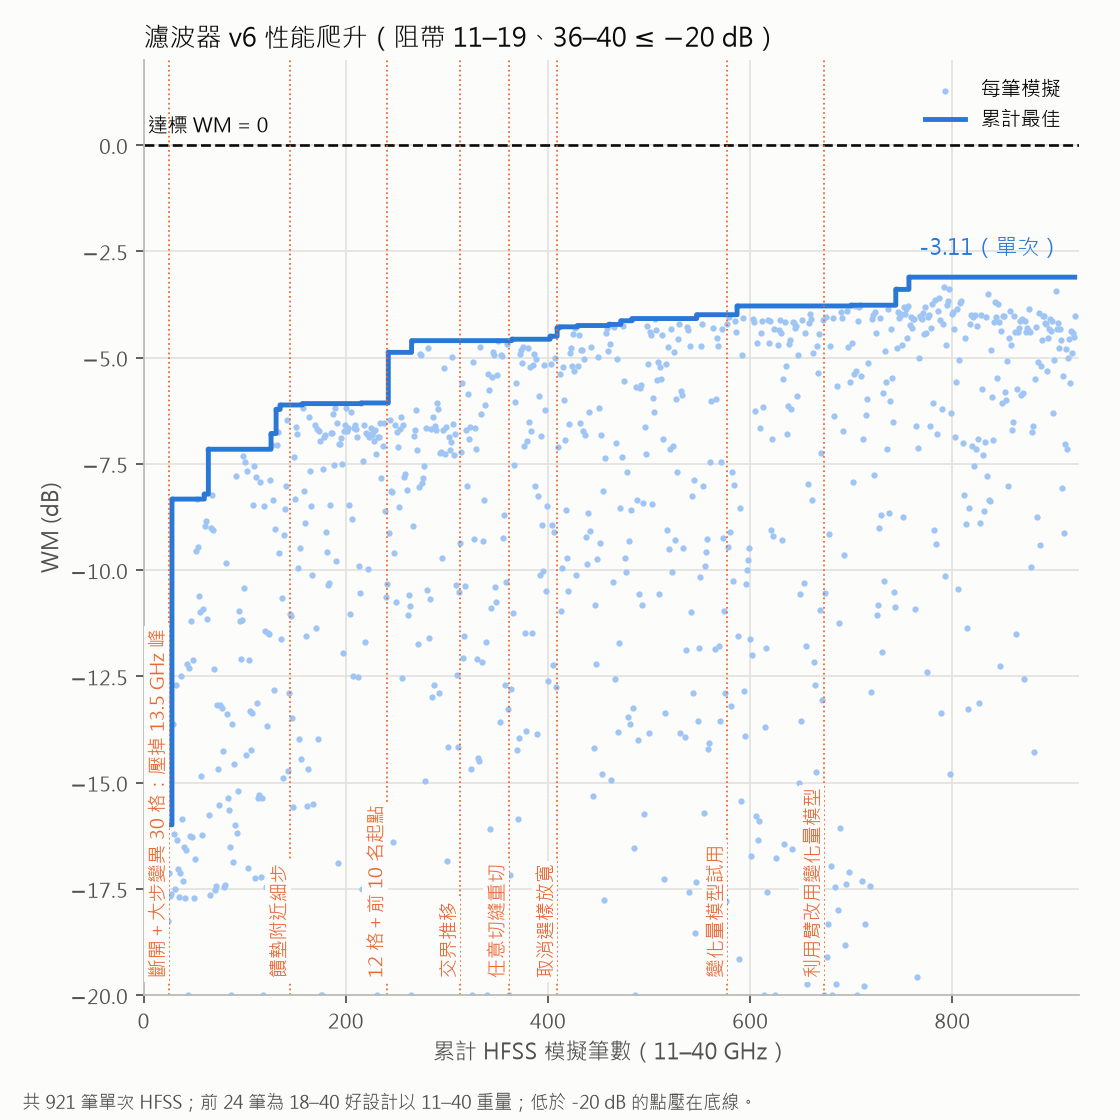
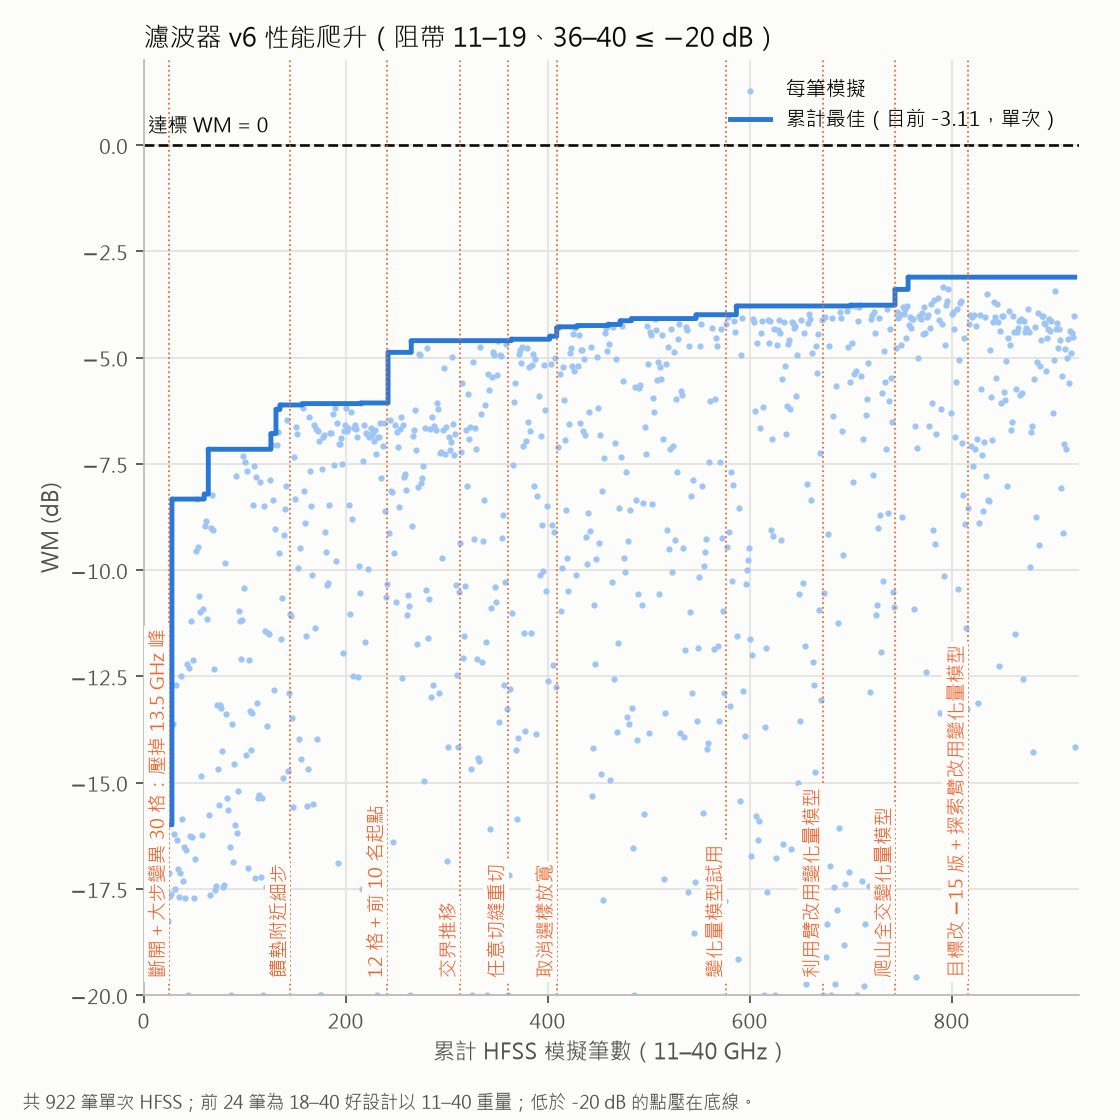
R81 爬升圖：新增 −15 版（v6a）尺回算的爬升圖；事件標註補到 b96（爬山全交變化量模型、目標改 −15 版＋探索臂）；目前最佳改寫進圖例避免壓線

diff --git a/script/figs/r81_v6.py b/script/figs/r81_v6.py
@@ -1,7 +1,7 @@
 """R81 學長 v6 規格（11–40 GHz，阻帶 ≤ −20 dB）兩張圖：性能爬升、目前最佳設計卡片。
 
 用法：python -m script.figs.r81_v6 <輸出資料夾> [--id r81v2_b71_003_f8fd2069]
-輸出：r81v6_climb.png、r81v6_best_card.png、r81v6a_best_card.png（−15 版最佳，各格 margin 用 −15 版；各格正方形）。
+輸出：r81v6_climb.png、r81v6a_climb.png（−15 版尺回算全部）、r81v6_best_card.png、r81v6a_best_card.png（−15 版最佳，各格 margin 用 −15 版；各格正方形）。
 資料：v2_v001 資料根中 11–40 GHz 量測的 store（補量 r81v6m02 與 b62 起各批），依批號排序；重測（~rep）不計入。
 """
 import argparse
@@ -19,7 +19,8 @@ from script.figs import r81_progress as rp
 DOT, LINE, MARK = "#9ec5f4", "#2a78d6", "#eb6834"
 V6, V6A = sm.REPO / "configs" / "dual_r81_v6.yaml", sm.REPO / "configs" / "dual_r81_v6a.yaml"
 EVENTS = [(62, "斷開＋大步變異 30 格：壓掉 13.5 GHz 峰"), (67, "饋墊附近細步"), (71, "12 格＋前 10 名起點"),
-          (74, "交界推移"), (76, "任意切縫重切"), (78, "取消選樣放寬"), (85, "變化量模型試用"), (89, "利用臂改用變化量模型")]
+          (74, "交界推移"), (76, "任意切縫重切"), (78, "取消選樣放寬"), (85, "變化量模型試用"), (89, "利用臂改用變化量模型"),
+          (92, "爬山全交變化量模型"), (96, "目標改 −15 版＋探索臂改用變化量模型"), (101, "兩模型平均打分")]
 
 
 def rows_v6(cfg, grid):
@@ -40,15 +41,14 @@ def rows_v6(cfg, grid):
     return rows
 
 
-def climb_figure(out, rows):
-    wm = np.array([r["wm"] for r in rows])
+def climb_figure(out, rows, key="wm", lo=-20, title="濾波器 v6 性能爬升（阻帶 11–19、36–40 ≤ −20 dB）", note=""):
+    wm = np.array([r[key] for r in rows])
     best = np.maximum.accumulate(wm)
     x = np.arange(1, len(wm) + 1)
-    lo = -20
     fig, ax = plt.subplots(figsize=(7, 7), dpi=160)
     fig.patch.set_facecolor(rp.SURF)
     ax.scatter(x, np.clip(wm, lo, None), s=8, color=DOT, lw=0, label="每筆模擬")
-    ax.step(x, best, where="post", color=LINE, lw=2.2, label="累計最佳")
+    ax.step(x, best, where="post", color=LINE, lw=2.2, label=f"累計最佳（目前 {best[-1]:+.2f}，單次）")
     ax.axhline(0, color=rp.INK, lw=1.2, ls="--")
     ax.text(4, 0.3, "達標 WM = 0", fontsize=9, color=rp.INK)
     batches = [r["batch"] for r in rows]
@@ -58,17 +58,15 @@ def climb_figure(out, rows):
             ax.axvline(x[i], color=MARK, lw=0.8, ls=":")
             ax.text(x[i] - 3, lo + 0.4, text, rotation=90, ha="right", va="bottom", fontsize=8.5, color=MARK,
                     bbox=dict(facecolor=rp.SURF, edgecolor="none", pad=1.5))
-    ax.annotate(f"{best[-1]:+.2f}（單次）", xy=(x[-1], best[-1]), xytext=(-6, 10), textcoords="offset points",
-                ha="right", fontsize=10, color=LINE)
     ax.set_xlim(0, x[-1] + 4)
     ax.set_ylim(lo, 2)
     ax.set_xlabel("累計 HFSS 模擬筆數（11–40 GHz）", color=rp.MUTED)
     ax.set_ylabel("WM (dB)", color=rp.MUTED)
-    ax.set_title("濾波器 v6 性能爬升（阻帶 11–19、36–40 ≤ −20 dB）", loc="left", fontsize=11.5, color=rp.INK)
+    ax.set_title(title, loc="left", fontsize=11.5, color=rp.INK)
     ax.legend(loc="upper right", frameon=False, fontsize=9)
     rp.style(ax)
     ax.set_box_aspect(1)
-    fig.text(0.02, 0.01, f"共 {len(wm)} 筆單次 HFSS；前 24 筆為 18–40 好設計以 11–40 重量；低於 {lo} dB 的點壓在底線。",
+    fig.text(0.02, 0.01, f"共 {len(wm)} 筆單次 HFSS；前 24 筆為 18–40 好設計以 11–40 重量；低於 {lo} dB 的點壓在底線。{note}",
              fontsize=8, color=rp.MUTED)
     fig.tight_layout(rect=(0, 0.03, 1, 1))
     fig.savefig(out, facecolor=rp.SURF)
@@ -137,9 +135,14 @@ def main(argv=None):
     rows = rows_v6(v6, grid)
     args.outdir.mkdir(parents=True, exist_ok=True)
     climb_figure(args.outdir / "r81v6_climb.png", rows)
+    for r in rows:
+        r["wm_a"] = sm.true_wm(r, v6a, grid)["worst_margin"]
+    climb_figure(args.outdir / "r81v6a_climb.png", rows, key="wm_a", lo=-15,
+                 title="濾波器 −15 版（v6a）性能爬升（阻帶 11–19、36–40 ≤ −15 dB）",
+                 note="\nb95 以前選樣以 −20 版為目標、b96 起改以 −15 版為目標；此圖全部以 −15 版尺回算。")
     best = next(r for r in rows if r["id"] == args.id) if args.id else max(rows, key=lambda r: r["wm"])
     card_figure(args.outdir / "r81v6_best_card.png", best, grid, v6, v6a, len(rows))
-    best_a = max(rows, key=lambda r: sm.true_wm(r, v6a, grid)["worst_margin"])
+    best_a = max(rows, key=lambda r: r["wm_a"])
     card_figure(args.outdir / "r81v6a_best_card.png", best_a, grid, v6, v6a, len(rows), spec="v6a")
 
 

diff --git a/script/figs/README.md b/script/figs/README.md
@@ -45,7 +45,7 @@ dedust store / pool 快取。R6 的圖走 `python -m script.expected_best report
 - `symmetry_profile.py` — 具名 profile 凍結資料的幾何六角格與 S11/Gain 頻率分布；輸入 `symmetry_analysis profile` 的 hash-bound JSON/NPZ，固定幾何座標、無插值。加 `--sample-id <id>` 產生單一樣本的金屬像素／S11／Gain／28 GHz 極座標方向圖卡，沿用 `polar_rad_ax`（0°朝上、每圈5 dB、±45°窗、G0−3 dB圈），兩截面共用刻度；顯示下限與截點數寫入收據，保留單次量測與描述統計限制。產生輸入 JSON/NPZ 的 `script/symmetry_analysis.py` 已於 2026-10-12 移除（tag `pre-cleanup-20261012`），已凍結的資料仍可直接重畫。
 - `meeting_*.py` — 2026-10 組會簡報（6–9 月成果）補圖，輸出到 `docs/進度報告/組會_2026-10/figs/`（該夾 gitignore，只在本機）；只讀 repo 內 md/json 與本機 tmp 快取，零 NAS。共用設定兩支：`meeting_common.py`（records_overview／relay_climb／ga_vs_random／f04 用）、`meeting_figkit.py`（dust_two_way／wing_waterfall／diag_grammar／diamond_vs_cut／mesh_convergence／diffsim_final／emforge_onboard 用）；spec_masks／phantom_evidence／gain_waterfall／budget_scatter 自帶設定；`meeting_square.py`（方格 pattern／響應）、`meeting_clean.py`（乾淨版分析圖）、`meeting_schematic.py`（講解示意圖，假資料不帶數字）也自帶設定。數字寫死處皆在檔內註明出處 round 檔。
 - `r80_sym.py` — R80 對稱天線：性能爬升（R80 5,000 筆＋10/15 續探，依完成時間）、續探放大圖與最佳設計卡片（S11／Gain／pattern 含對角橋／28 GHz 兩切面方向圖）→ `docs/log/assets/round-80/`
-- `r81_v6.py` — R81 學長 v6 規格（11–40 GHz、阻帶 ≤ −20）：性能爬升（補量＋b62 起各批）與目前最佳設計卡片（S21／S11／S22 各一格＋pattern）→ `docs/log/assets/round-81/r81v6_climb.png`、`r81v6_best_card.png`
+- `r81_v6.py` — R81 學長 v6 規格（11–40 GHz、阻帶 ≤ −20）：性能爬升（補量＋b62 起各批）與目前最佳設計卡片（S21／S11／S22 各一格＋pattern）；另以 −15 版（v6a）尺回算一張爬升與一張最佳卡片 → `docs/log/assets/round-81/r81v6_climb.png`、`r81v6a_climb.png`、`r81v6_best_card.png`、`r81v6a_best_card.png`
 - `r81_v6_question.py` — R81 問學長用：v4x 最佳設計 b57_004 以 11–40 GHz 重量後，分別套 v4x 與學長 v6 spec 的 S21（標出 13.5–14 GHz 漏點）→ `docs/log/assets/round-81/r81_v6_question.png`
 - `r81_reseam.py` — R81 任意切縫示意：v6 最佳斷開設計（直線交界）與三個鋸齒切縫重切變體（上下主體與浮島分色）→ `docs/log/assets/round-81/r81_reseam_demo.png`
 - `r82_s2_trial.py` — R82 上線試用：同批爬山名額「原 SM 挑」vs「變化量模型挑」的預測 vs 實測（兩格各一模型）→ `docs/log/assets/round-82/r82_s2_trial.png`
